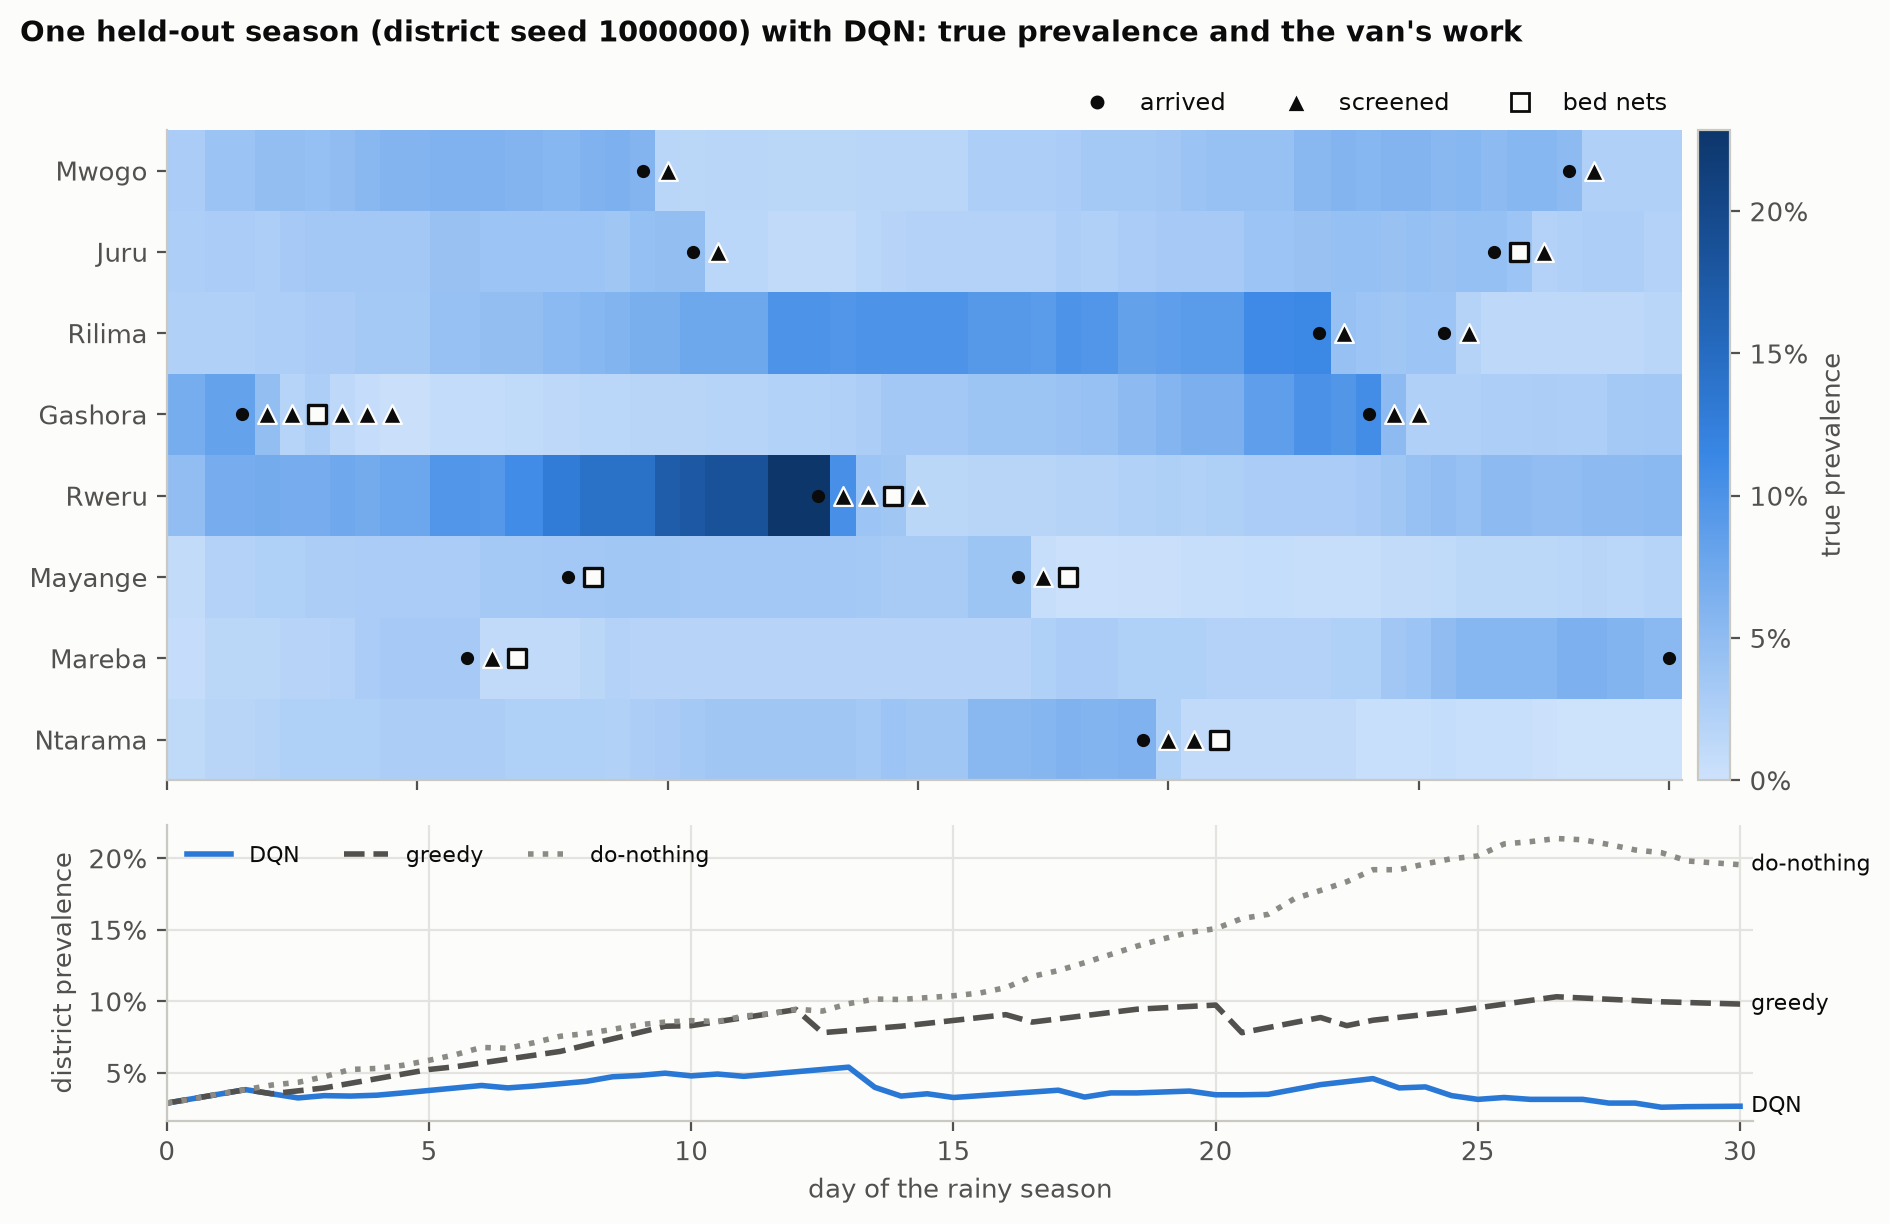
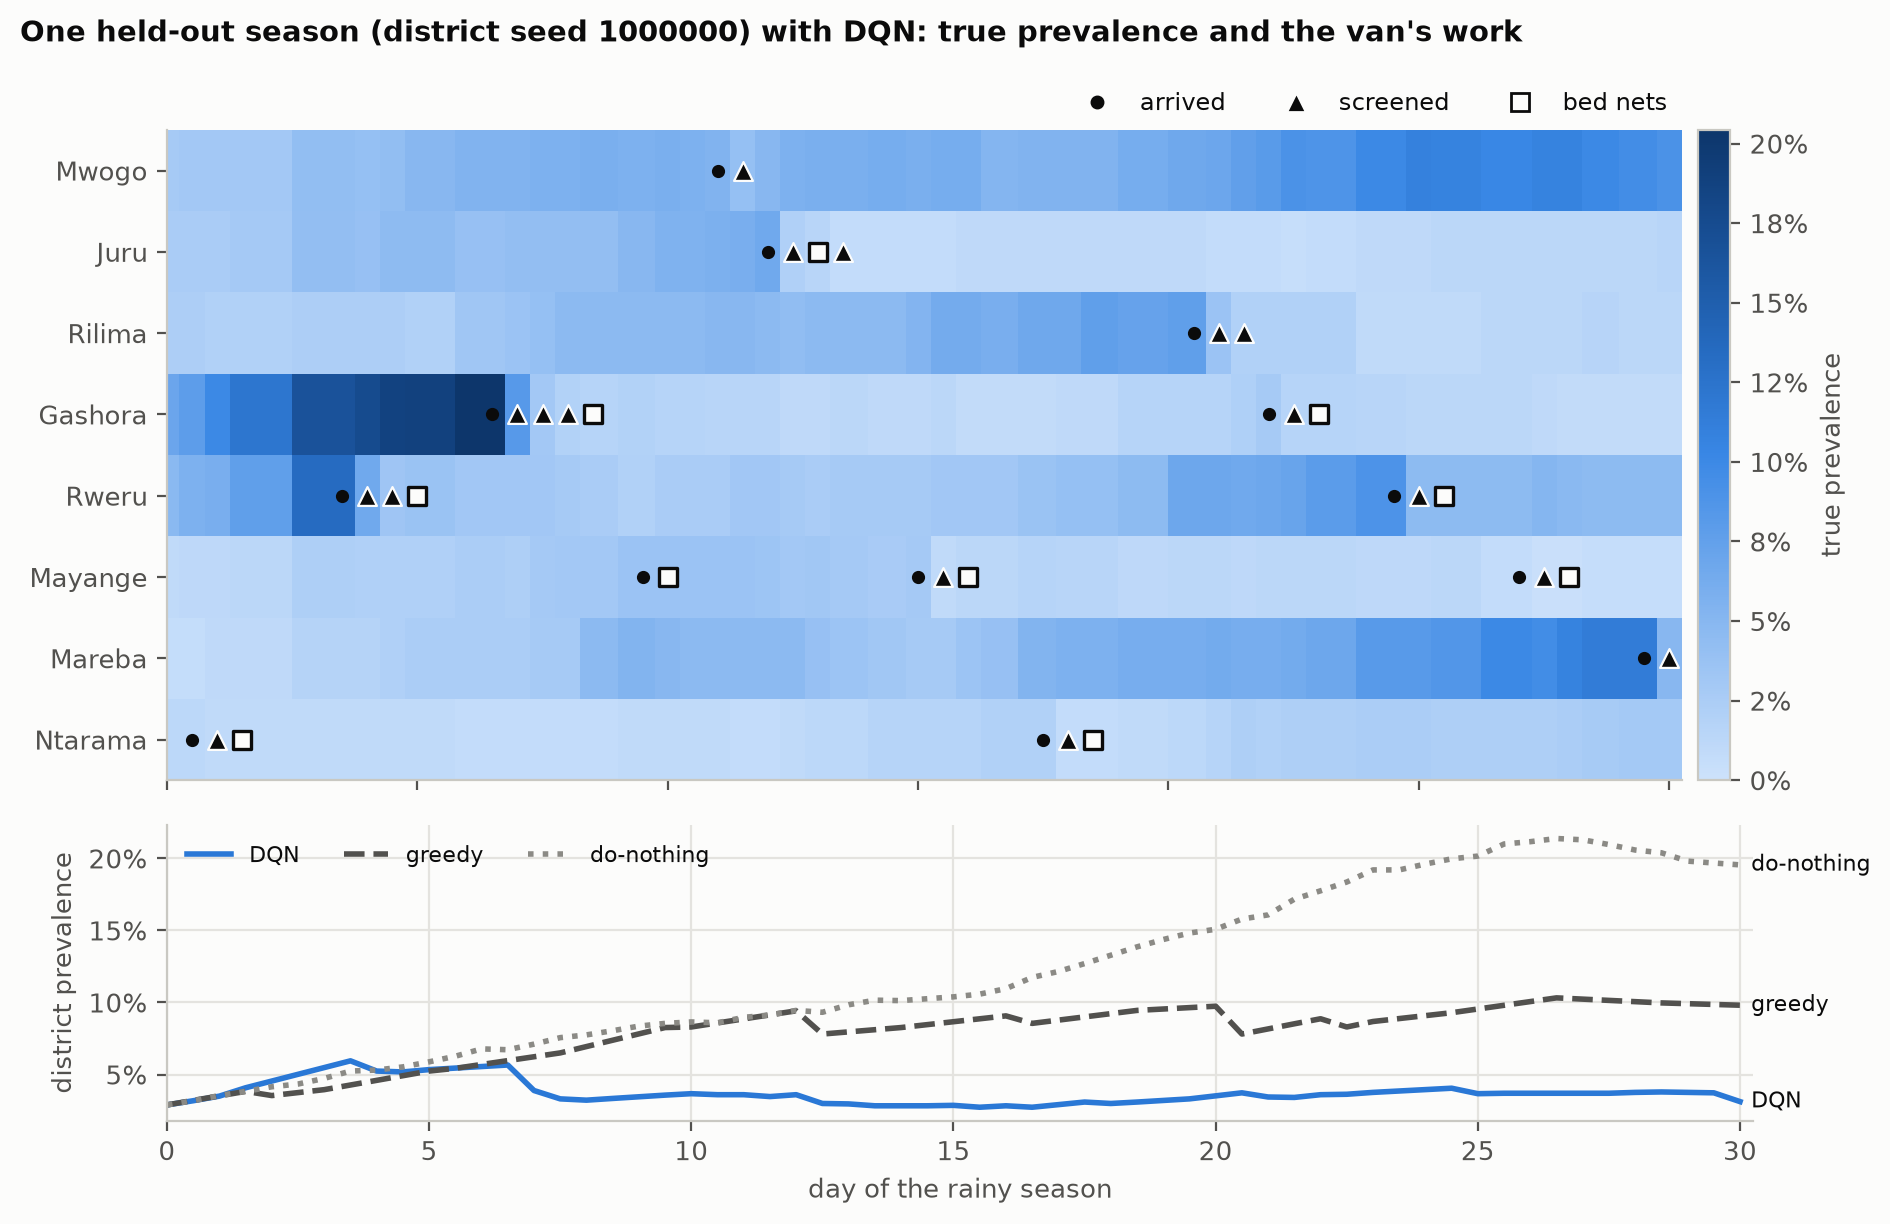
fix(analysis): the episode timeline replays the published default model
It picked the final run with the best held-out return (DQN seed 2), so the
figure showed a different agent from play.py and the viewer (DQN seed 1) on
the same district. It now uses models/best.json when present.

diff --git a/tests/test_figures.py b/tests/test_figures.py
@@ -12,7 +12,15 @@ import pytest
 
 from analysis.best_configs import select_best
 from analysis.load_runs import load_runs, model_dir
-from analysis.make_figures import FIGURES, TABLES, build_all, changed_factors, episodes_to_converge
+from analysis.make_figures import (
+    FIGURES,
+    TABLES,
+    best_overall,
+    build_all,
+    changed_factors,
+    episodes_to_converge,
+    load_results,
+)
 from environment.custom_env import ENV_VERSION
 from training.common import ALGOS, default_config
 from training.seeds import EVAL_SETS, HELD_OUT_SEEDS, seed_hash
@@ -155,3 +163,16 @@ def test_compacted_logs_load_like_the_originals(tmp_path):
     assert list(after.columns) == list(before.columns) and (after["episode"] == before["episode"]).all()
     np.testing.assert_allclose(after["return"], before["return"], rtol=1e-4)
     assert load_updates(tmp_path)["loss"].iloc[0] == 0.12346
+
+
+def test_timeline_replays_the_published_default_model(tree):
+    """With models/best.json, the timeline shows the same agent as play.py, not a re-chosen one."""
+    logs, models, assets = tree
+    algo, directory = best_overall(load_results(logs, models, assets / "tables"))
+    assert directory.name.startswith("final_")  # no published model in this tree: best final run
+    (models / "best.json").write_text(json.dumps({"algo": "reinforce"}))
+    try:
+        assert best_overall(load_results(logs, models, assets / "tables")) == (
+            "reinforce", models / "pg" / "reinforce" / "best")
+    finally:
+        (models / "best.json").unlink()

diff --git a/analysis/make_figures.py b/analysis/make_figures.py
@@ -470,7 +470,13 @@ def fig_action_mix(results: Results, out: Path) -> None:
 
 
 def best_overall(results: Results) -> tuple[str, Path]:
-    """The algorithm with the best final (else sweep) held-out return, and one of its model dirs."""
+    """The published default model (models/best.json, the one play.py shows), so the figure, the
+    viewer and the video replay the same agent. Without one (a dev tree), the run with the best
+    final (else sweep) held-out return."""
+    published = results.models_root / "best.json"
+    if published.exists():
+        algo = json.loads(published.read_text())["algo"]
+        return algo, model_dir(results.models_root, algo, "best")
     source = results.final if not results.final.empty else results.sweep
     if source.empty:
         raise Skip("no finished runs")
